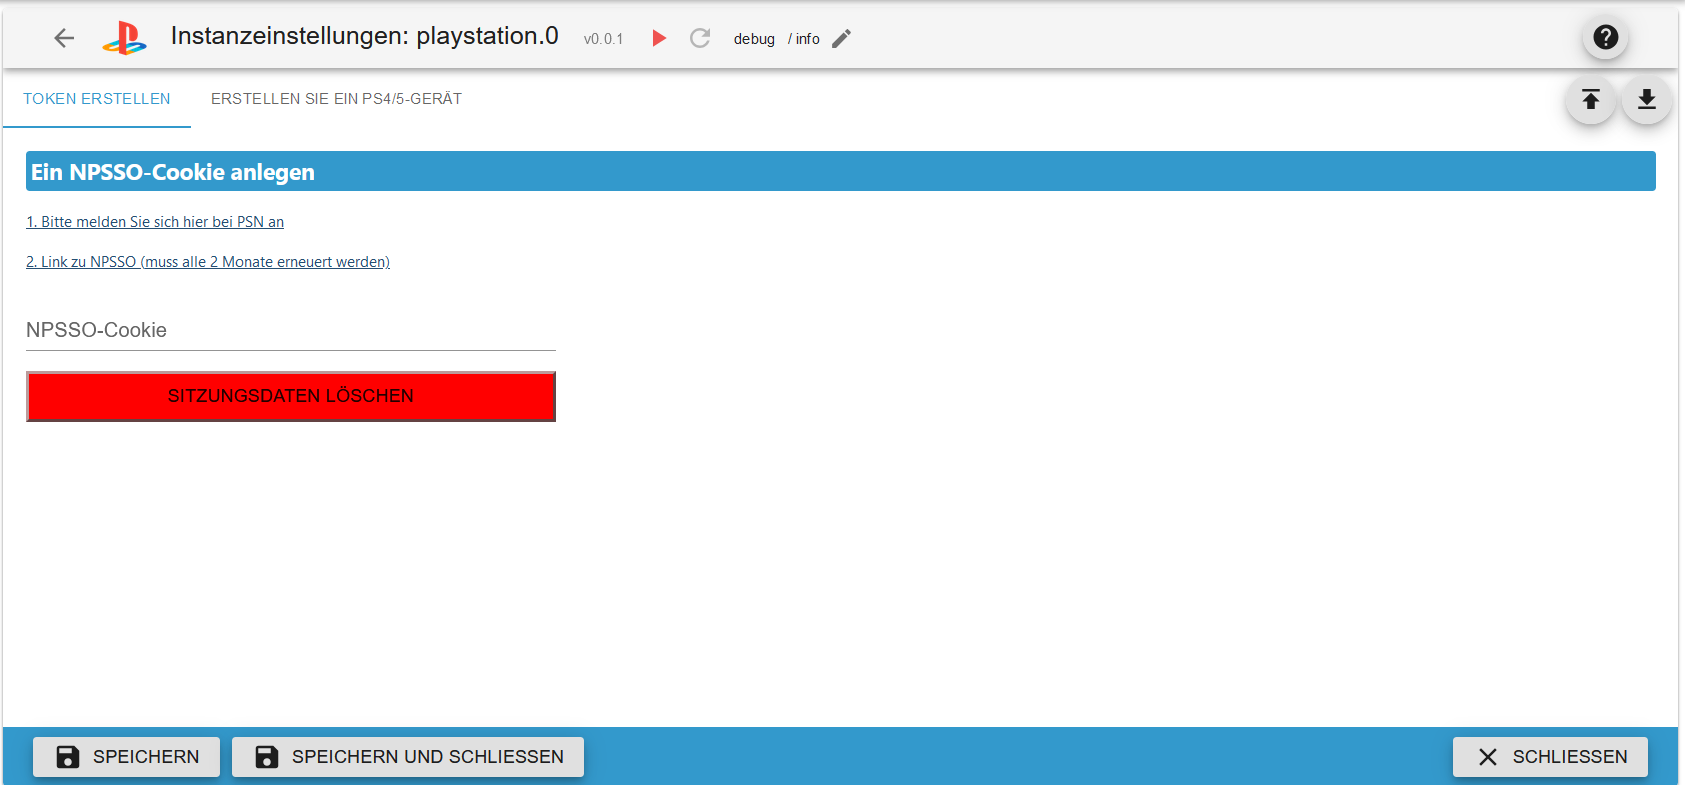
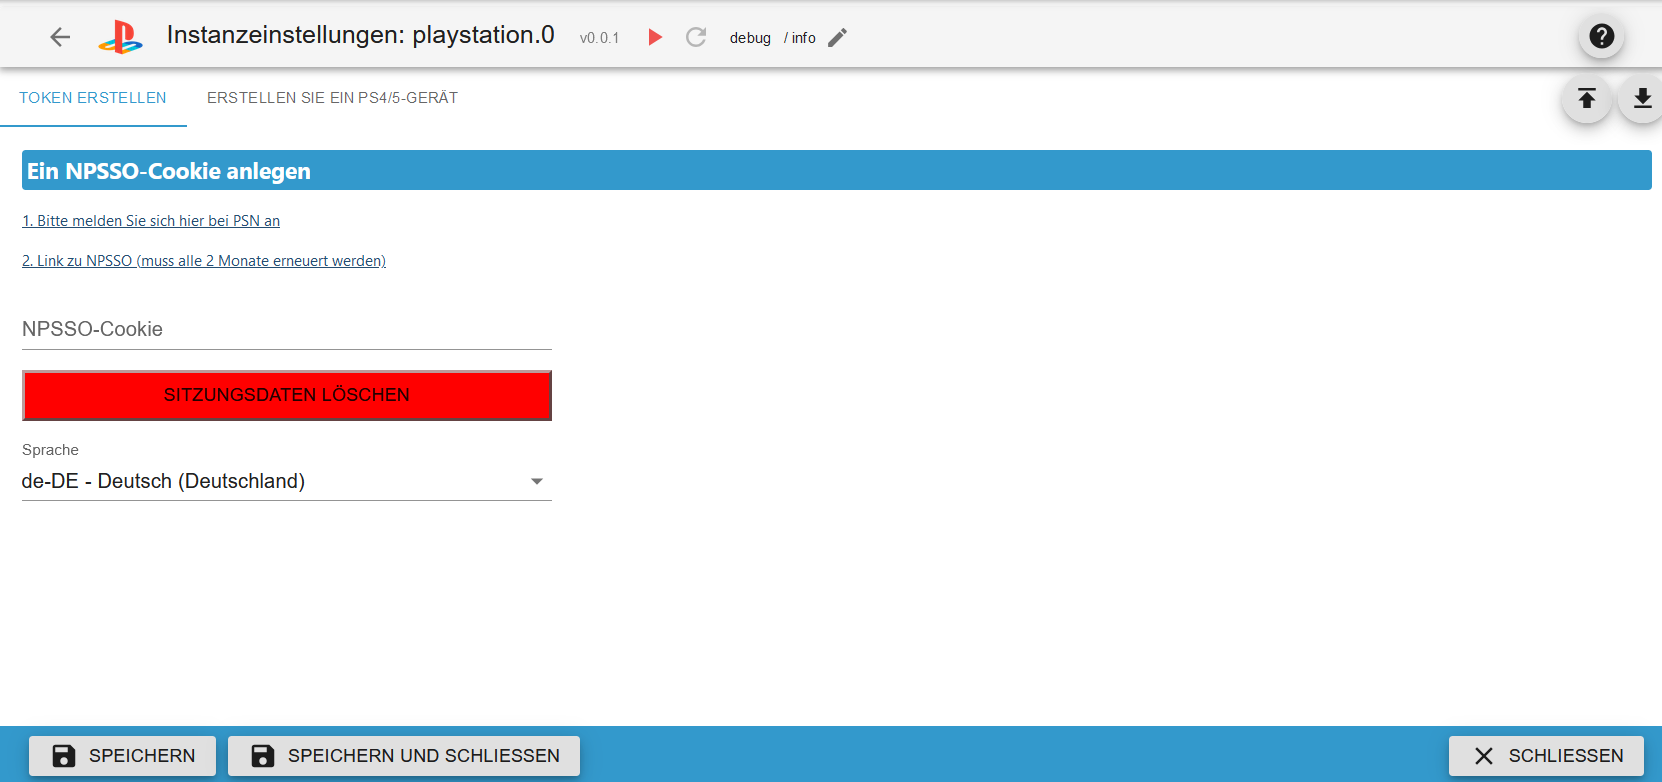
add langauges

diff --git a/docs/de/README.md b/docs/de/README.md
@@ -50,6 +50,7 @@
 - `2. Link zu NPSSO (muss alle 2 Monate erneuert werden)` Nach dem Einloggen diesen Link anklicken und den NPSSO Cookie kopieren
 - `NPSSO-Cookie` NPSSO Cookie hier einfügen
 - `Sitzungsdaten löschen` Bei Login Probleme die aktuelle Session löschen
+- `Sprache` Die Sprache aus dem PSN-Konto
 
 ![instance_tab_token.png](img/instance_tab_token.png)
 

diff --git a/docs/en/README.md b/docs/en/README.md
@@ -50,6 +50,7 @@
 - `2. Link to NPSSO (must be renewed every 2 months)` After logging in, click this link and copy the NPSSO cookie
 - `NPSSO cookie` Paste NPSSO cookie here
 - `Delete session data` If you have problems logging in, delete the current session
+- `Language` The language from the PSN account
 
 ![instance_tab_token.png](img/instance_tab_token.png)
 
